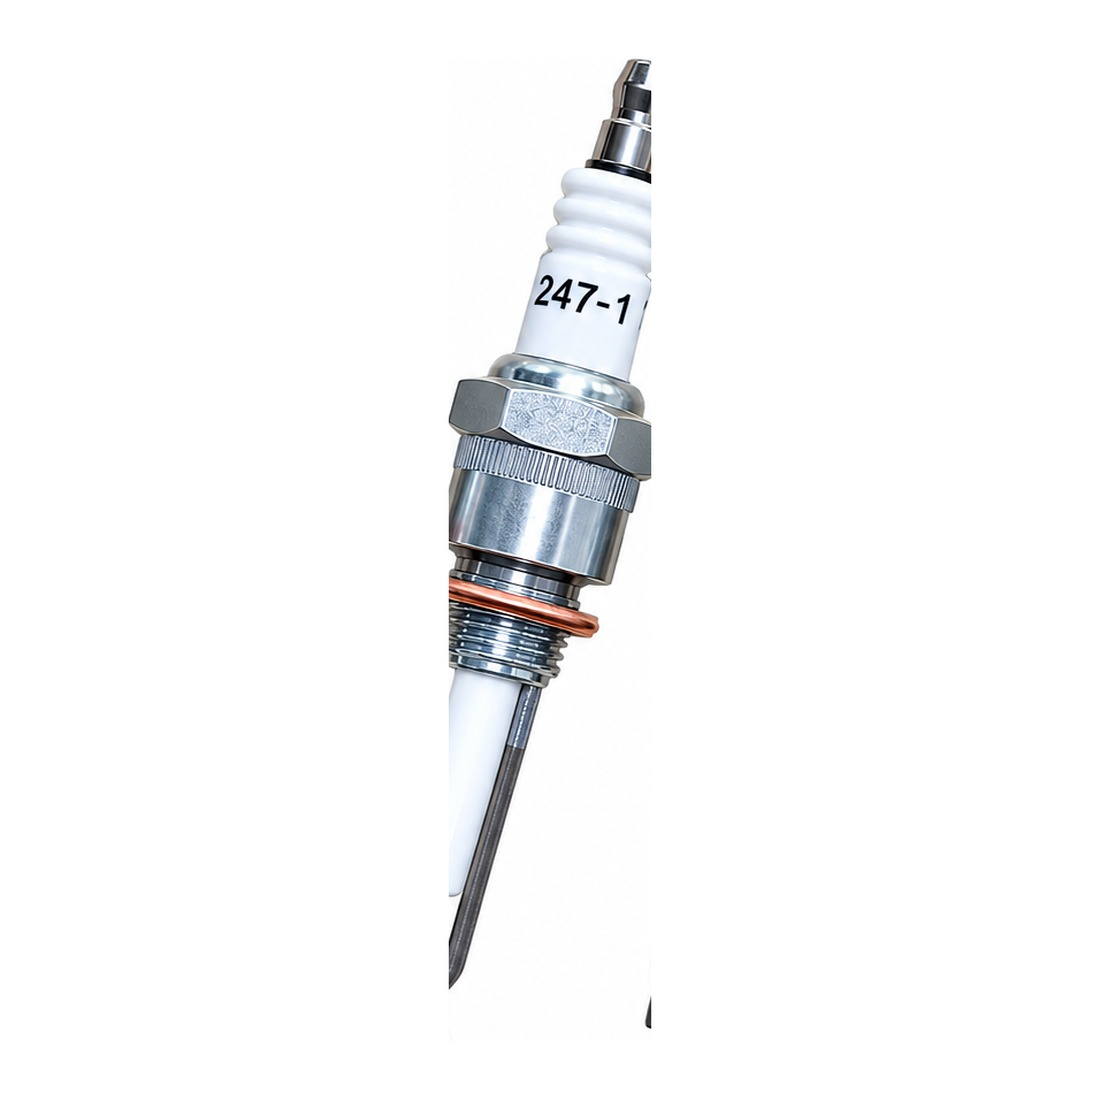
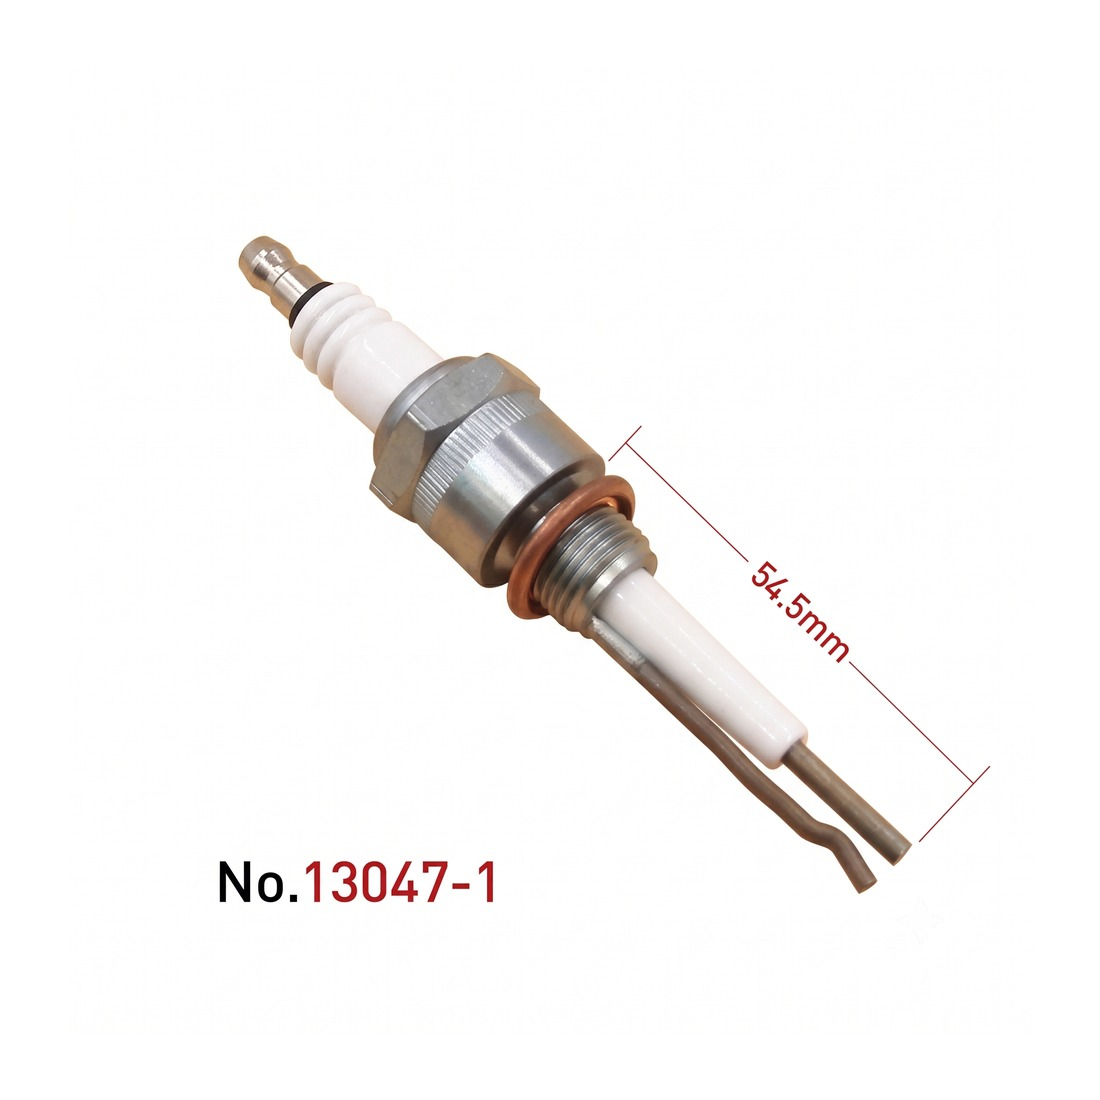
Update 13047-1: official photo + spec corrections
Replaced product image with manufacturer catalog photo (unmodified, JPG conversion only); corrected Electrode Base Depth to photo-confirmed 54.5mm; added alt SKU EC13047-1 and flame-rod detection compatibility note.

Changed region(s): [[0.1855, 0.0309, 0.8345, 0.8964], [0.68, 0.4945, 0.7727, 0.6182]]

diff --git a/products/honeywell-eclipse-13047-1.html b/products/honeywell-eclipse-13047-1.html
@@ -7,12 +7,12 @@
 <link rel="icon" type="image/png" sizes="32x32" href="../images/favicon-32.png">
 <link rel="apple-touch-icon" sizes="180x180" href="../images/apple-touch-icon-180.png">
 <title>Honeywell Eclipse Spark Ignition Electrode 13047-1 | RKIC</title>
-<meta name="description" content="Honeywell Eclipse Spark Ignition Electrode 13047-1 — Spark Electrodes. Part Number: 13047-1. Electrode Base Depth: 55 mm. Contact RKIC now.">
+<meta name="description" content="Honeywell Eclipse Spark Ignition Electrode 13047-1 (EC13047-1) — Spark Electrodes. Part Number: 13047-1. Electrode Base Depth: 54.5 mm. Contact RKIC now.">
 <meta name="keywords" content="Honeywell Eclipse, 13047-1, Spark Electrode, Ignition Electrode, Honeywell Eclipse Spark Ignition Electrode 13047-1, Surat, Gujarat, India, industrial instruments">
 <link rel="canonical" href="https://rkic1976-bot.github.io/RKIC-SITE/products/honeywell-eclipse-13047-1.html">
 <meta property="og:type" content="product">
 <meta property="og:title" content="Honeywell Eclipse Spark Ignition Electrode 13047-1">
-<meta property="og:description" content="The Honeywell Eclipse 13047-1 is a self-grounding burner spark ignition electrode with a 55mm base depth (2.17 in.) and M14 x 1.25mm threaded mounting. Built with a Kanthal A1 electrode and an alumina ceramic body, it is rated for continuous operation from -100 degC to 1350 degC with a 40kV minimum ignition voltage. It is used on Eclipse AH (Airheat) Version 2 burners and Gas Burner Compact units. Manufactured by Honeywell Eclipse.">
+<meta property="og:description" content="The Honeywell Eclipse 13047-1 is a self-grounding burner spark ignition electrode with a 54.5mm base depth (2.17 in.) and M14 x 1.25mm threaded mounting. Built with a Kanthal A1 electrode and an alumina ceramic body, it is rated for continuous operation from -100 degC to 1350 degC with a 40kV minimum ignition voltage. It is used on Eclipse AH (Airheat) Version 2 burners and Gas Burner Compact units, with or without flame-rod detection. Manufactured by Honeywell Eclipse.">
 <meta property="og:url" content="https://rkic1976-bot.github.io/RKIC-SITE/products/honeywell-eclipse-13047-1.html">
 <meta property="og:image" content="https://rkic1976-bot.github.io/RKIC-SITE/images/honeywell-eclipse-13047-1-large.jpg">
 <meta property="og:image:width" content="500">
@@ -20,9 +20,9 @@
 <meta property="og:site_name" content="R.K. Instruments &amp; Controls">
 <meta name="twitter:card" content="summary_large_image">
 <meta name="twitter:title" content="Honeywell Eclipse Spark Ignition Electrode 13047-1">
-<meta name="twitter:description" content="The Honeywell Eclipse 13047-1 is a self-grounding burner spark ignition electrode with a 55mm base depth (2.17 in.) and M14 x 1.25mm threaded mounting. Built with a Kanthal A1 electrode and an alumina ceramic body, it is rated for continuous operation from -100 degC to 1350 degC with a 40kV minimum ignition voltage. It is used on Eclipse AH (Airheat) Version 2 burners and Gas Burner Compact units. Manufactured by Honeywell Eclipse.">
+<meta name="twitter:description" content="The Honeywell Eclipse 13047-1 is a self-grounding burner spark ignition electrode with a 54.5mm base depth (2.17 in.) and M14 x 1.25mm threaded mounting. Built with a Kanthal A1 electrode and an alumina ceramic body, it is rated for continuous operation from -100 degC to 1350 degC with a 40kV minimum ignition voltage. It is used on Eclipse AH (Airheat) Version 2 burners and Gas Burner Compact units, with or without flame-rod detection. Manufactured by Honeywell Eclipse.">
 <meta name="twitter:image" content="https://rkic1976-bot.github.io/RKIC-SITE/images/honeywell-eclipse-13047-1-large.jpg">
-<script type="application/ld+json">{"@context": "https://schema.org", "@type": "Product", "name": "Honeywell Eclipse Spark Ignition Electrode 13047-1", "sku": "13047-1", "mpn": "13047-1", "description": "The Honeywell Eclipse 13047-1 is a self-grounding burner spark ignition electrode with a 55mm base depth (2.17 in.) and M14 x 1.25mm threaded mounting. Built with a Kanthal A1 electrode and an alumina ceramic body, it is rated for continuous operation from -100 degC to 1350 degC with a 40kV minimum ignition voltage. It is used on Eclipse AH (Airheat) Version 2 burners and Gas Burner Compact units. Manufactured by Honeywell Eclipse.", "brand": {"@type": "Brand", "name": "Honeywell Eclipse"}, "category": "SPARK ELECTRODES", "manufacturer": {"@type": "Organization", "name": "Honeywell Eclipse"}, "image": "https://rkic1976-bot.github.io/RKIC-SITE/images/honeywell-eclipse-13047-1-large.jpg", "url": "https://rkic1976-bot.github.io/RKIC-SITE/products/honeywell-eclipse-13047-1.html"}</script>
+<script type="application/ld+json">{"@context": "https://schema.org", "@type": "Product", "name": "Honeywell Eclipse Spark Ignition Electrode 13047-1", "sku": "13047-1", "mpn": "13047-1", "description": "The Honeywell Eclipse 13047-1 is a self-grounding burner spark ignition electrode with a 54.5mm base depth (2.17 in.) and M14 x 1.25mm threaded mounting. Built with a Kanthal A1 electrode and an alumina ceramic body, it is rated for continuous operation from -100 degC to 1350 degC with a 40kV minimum ignition voltage. It is used on Eclipse AH (Airheat) Version 2 burners and Gas Burner Compact units, with or without flame-rod detection. Manufactured by Honeywell Eclipse.", "brand": {"@type": "Brand", "name": "Honeywell Eclipse"}, "category": "SPARK ELECTRODES", "manufacturer": {"@type": "Organization", "name": "Honeywell Eclipse"}, "image": "https://rkic1976-bot.github.io/RKIC-SITE/images/honeywell-eclipse-13047-1-large.jpg", "url": "https://rkic1976-bot.github.io/RKIC-SITE/products/honeywell-eclipse-13047-1.html"}</script>
 <script type="application/ld+json">{"@context": "https://schema.org", "@type": "BreadcrumbList", "itemListElement": [{"@type": "ListItem", "position": 1, "name": "Home", "item": "https://rkic1976-bot.github.io/RKIC-SITE/"}, {"@type": "ListItem", "position": 2, "name": "Catalog", "item": "https://rkic1976-bot.github.io/RKIC-SITE/#catalog"}, {"@type": "ListItem", "position": 3, "name": "Spark Electrodes", "item": "https://rkic1976-bot.github.io/RKIC-SITE/categories/spark-electrodes.html"}, {"@type": "ListItem", "position": 4, "name": "Honeywell Eclipse Spark Ignition Electrode 13047-1", "item": "https://rkic1976-bot.github.io/RKIC-SITE/products/honeywell-eclipse-13047-1.html"}]}</script>
 <link rel="preconnect" href="https://fonts.googleapis.com">
 <link href="https://fonts.googleapis.com/css2?family=Barlow+Condensed:wght@500;600;700&family=Barlow:wght@400;500;600&family=IBM+Plex+Mono:wght@400;500&display=swap" rel="stylesheet">
@@ -530,19 +530,19 @@ footer{ background:var(--steel); color:var(--ink); margin-top:56px; }
         <span class="pg-tag">13047-1</span>
       </div>
       <h1 class="pg-title">Honeywell Eclipse Spark Ignition Electrode 13047-1</h1>
-      <div class="pg-code mono">Product Code: 13047-1</div>
+      <div class="pg-code mono">Product Code: 13047-1 / EC13047-1</div>
       <div class="pg-specs">
-<div class="pg-spec-row"><span class="pg-spec-k">Part Number</span><span class="pg-spec-v">13047-1</span></div>
+<div class="pg-spec-row"><span class="pg-spec-k">Part Number</span><span class="pg-spec-v">13047-1 / EC13047-1</span></div>
 <div class="pg-spec-row"><span class="pg-spec-k">Product Type</span><span class="pg-spec-v">Burner Spark Ignition Electrode (Self-Grounding)</span></div>
-<div class="pg-spec-row"><span class="pg-spec-k">Electrode Base Depth</span><span class="pg-spec-v">55 mm (2.17 in.)</span></div>
+<div class="pg-spec-row"><span class="pg-spec-k">Electrode Base Depth</span><span class="pg-spec-v">54.5 mm (2.17 in.)</span></div>
 <div class="pg-spec-row"><span class="pg-spec-k">Thread Type / Size</span><span class="pg-spec-v">M14 (14mm x 1.25mm)</span></div>
 <div class="pg-spec-row"><span class="pg-spec-k">Ignition Voltage</span><span class="pg-spec-v">40 kV minimum</span></div>
 <div class="pg-spec-row"><span class="pg-spec-k">Operating Temperature</span><span class="pg-spec-v">-100&deg;C to 1350&deg;C</span></div>
-<div class="pg-spec-row"><span class="pg-spec-k">Burner Compatibility</span><span class="pg-spec-v">Eclipse AH (Airheat) Version 2 burners, Gas Burner Compact</span></div>
+<div class="pg-spec-row"><span class="pg-spec-k">Burner Compatibility</span><span class="pg-spec-v">Eclipse AH (Airheat) Version 2 burners, Gas Burner Compact, with or without flame-rod detection</span></div>
 <div class="pg-spec-row"><span class="pg-spec-k">Electrode &amp; Wiring Material</span><span class="pg-spec-v">Kanthal A1 (FeCrAl resistance wire), alumina ceramic body</span></div>
 <div class="pg-spec-row"><span class="pg-spec-k">Manufacturer</span><span class="pg-spec-v">Honeywell Eclipse</span></div>
       </div>
-      <p class="pg-desc">The Honeywell Eclipse 13047-1 is a self-grounding burner spark ignition electrode with a 55mm base depth (2.17 in.) and M14 x 1.25mm threaded mounting. Built with a Kanthal A1 electrode and an alumina ceramic body, it is rated for continuous operation from -100 degC to 1350 degC with a 40kV minimum ignition voltage. It is used on Eclipse AH (Airheat) Version 2 burners and Gas Burner Compact units. Manufactured by Honeywell Eclipse.</p>
+      <p class="pg-desc">The Honeywell Eclipse 13047-1 is a self-grounding burner spark ignition electrode with a 54.5mm base depth (2.17 in.) and M14 x 1.25mm threaded mounting. Built with a Kanthal A1 electrode and an alumina ceramic body, it is rated for continuous operation from -100 degC to 1350 degC with a 40kV minimum ignition voltage. It is used on Eclipse AH (Airheat) Version 2 burners and Gas Burner Compact units, with or without flame-rod detection. Manufactured by Honeywell Eclipse.</p>
       <div class="pg-cta">
         <a class="pg-btn pg-btn-primary" href="https://wa.me/919824136145?text=Enquiry%20for%20Honeywell%20Eclipse%20Spark%20Ignition%20Electrode%2013047-1" target="_blank" rel="noopener">Enquire on WhatsApp</a>
         <a class="pg-btn pg-btn-secondary" href="#contact">Contact Us</a>

diff --git a/index.html b/index.html
@@ -2202,21 +2202,21 @@
       name: 'Honeywell Eclipse Spark Ignition Electrode 13047-1',
       brand: 'Honeywell Eclipse',
       category: 'SPARK ELECTRODES',
-      code: '13047-1',
-      size: '55mm insertion length',
+      code: '13047-1 / EC13047-1',
+      size: '54.5mm insertion length',
       image: 'images/honeywell-eclipse-13047-1-large.jpg',
       specs: {
-        'Part Number': '13047-1',
+        'Part Number': '13047-1 / EC13047-1',
         'Product Type': 'Burner Spark Ignition Electrode (Self-Grounding)',
-        'Electrode Base Depth': '55 mm (2.17 in.)',
+        'Electrode Base Depth': '54.5 mm (2.17 in.)',
         'Thread Type / Size': 'M14 (14mm x 1.25mm)',
         'Ignition Voltage': '40 kV minimum',
         'Operating Temperature': '-100°C to 1350°C',
-        'Burner Compatibility': 'Eclipse AH (Airheat) Version 2 burners, Gas Burner Compact',
+        'Burner Compatibility': 'Eclipse AH (Airheat) Version 2 burners, Gas Burner Compact, with or without flame-rod detection',
         'Electrode & Wiring Material': 'Kanthal A1 (FeCrAl resistance wire), alumina ceramic body',
         'Manufacturer': 'Honeywell Eclipse'
       },
-      description: 'The Honeywell Eclipse 13047-1 is a self-grounding burner spark ignition electrode with a 55mm base depth (2.17 in.) and M14 x 1.25mm threaded mounting. Built with a Kanthal A1 electrode and an alumina ceramic body, it is rated for continuous operation from -100°C to 1350°C with a 40kV minimum ignition voltage. It is used on Eclipse AH (Airheat) Version 2 burners and Gas Burner Compact units. Manufactured by Honeywell Eclipse.'
+      description: 'The Honeywell Eclipse 13047-1 is a self-grounding burner spark ignition electrode with a 54.5mm base depth (2.17 in.) and M14 x 1.25mm threaded mounting. Built with a Kanthal A1 electrode and an alumina ceramic body, it is rated for continuous operation from -100°C to 1350°C with a 40kV minimum ignition voltage. It is used on Eclipse AH (Airheat) Version 2 burners and Gas Burner Compact units, with or without flame-rod detection. Manufactured by Honeywell Eclipse.'
     },
     {
       id: 'brahma-e7-l-a3c',

diff --git a/related-products-data.js b/related-products-data.js
@@ -74,7 +74,7 @@ const RKIC_PRODUCTS = [
   {id:"honeywell-eclipse-10019728", name:"Honeywell Eclipse Spark Ignition Electrode 10019728", brand:"Honeywell Eclipse", category:"SPARK ELECTRODES", subcategory:null, code:"10019728 / 019728", thumb:"../images/thumbs/honeywell-eclipse-10019728-thumb.jpg"},
   {id:"honeywell-eclipse-23045", name:"Honeywell Eclipse Spark Ignition Electrode 23045", brand:"Honeywell Eclipse", category:"SPARK ELECTRODES", subcategory:null, code:"23045 / EC23045", thumb:"../images/thumbs/honeywell-eclipse-23045-thumb.jpg"},
   {id:"honeywell-eclipse-13047", name:"Honeywell Eclipse Spark Ignition Electrode 13047", brand:"Honeywell Eclipse", category:"SPARK ELECTRODES", subcategory:null, code:"13047", thumb:"../images/thumbs/honeywell-eclipse-13047-thumb.jpg"},
-  {id:"honeywell-eclipse-13047-1", name:"Honeywell Eclipse Spark Ignition Electrode 13047-1", brand:"Honeywell Eclipse", category:"SPARK ELECTRODES", subcategory:null, code:"13047-1", thumb:"../images/thumbs/honeywell-eclipse-13047-1-thumb.jpg"},
+  {id:"honeywell-eclipse-13047-1", name:"Honeywell Eclipse Spark Ignition Electrode 13047-1", brand:"Honeywell Eclipse", category:"SPARK ELECTRODES", subcategory:null, code:"13047-1 / EC13047-1", thumb:"../images/thumbs/honeywell-eclipse-13047-1-thumb.jpg"},
   {id:"brahma-e7-l-a3c", name:"Brahma E7/L*A3C Oil Solenoid Valve", brand:"Brahma", category:"SOLENOID VALVES", subcategory:"Brahma Solenoid Valve", code:"13191801", thumb:"../images/thumbs/brahma-e7-l-a3c-thumb.jpg"},
   {id:"brahma-re3", name:"Brahma Flame Relay Sensor RE3 (110–120V) — Code 10801125", brand:"Brahma", category:"SENSORS", subcategory:"Flame Relay", code:"10801125", thumb:"../images/thumbs/brahma-re3-thumb.jpg"},
   {id:"brahma-re3-220v", name:"Brahma Flame Relay Sensor RE3 (220–230V) — Code 10801025", brand:"Brahma", category:"SENSORS", subcategory:"Flame Relay", code:"10801025", thumb:"../images/thumbs/brahma-re3-220v-thumb.jpg"},
